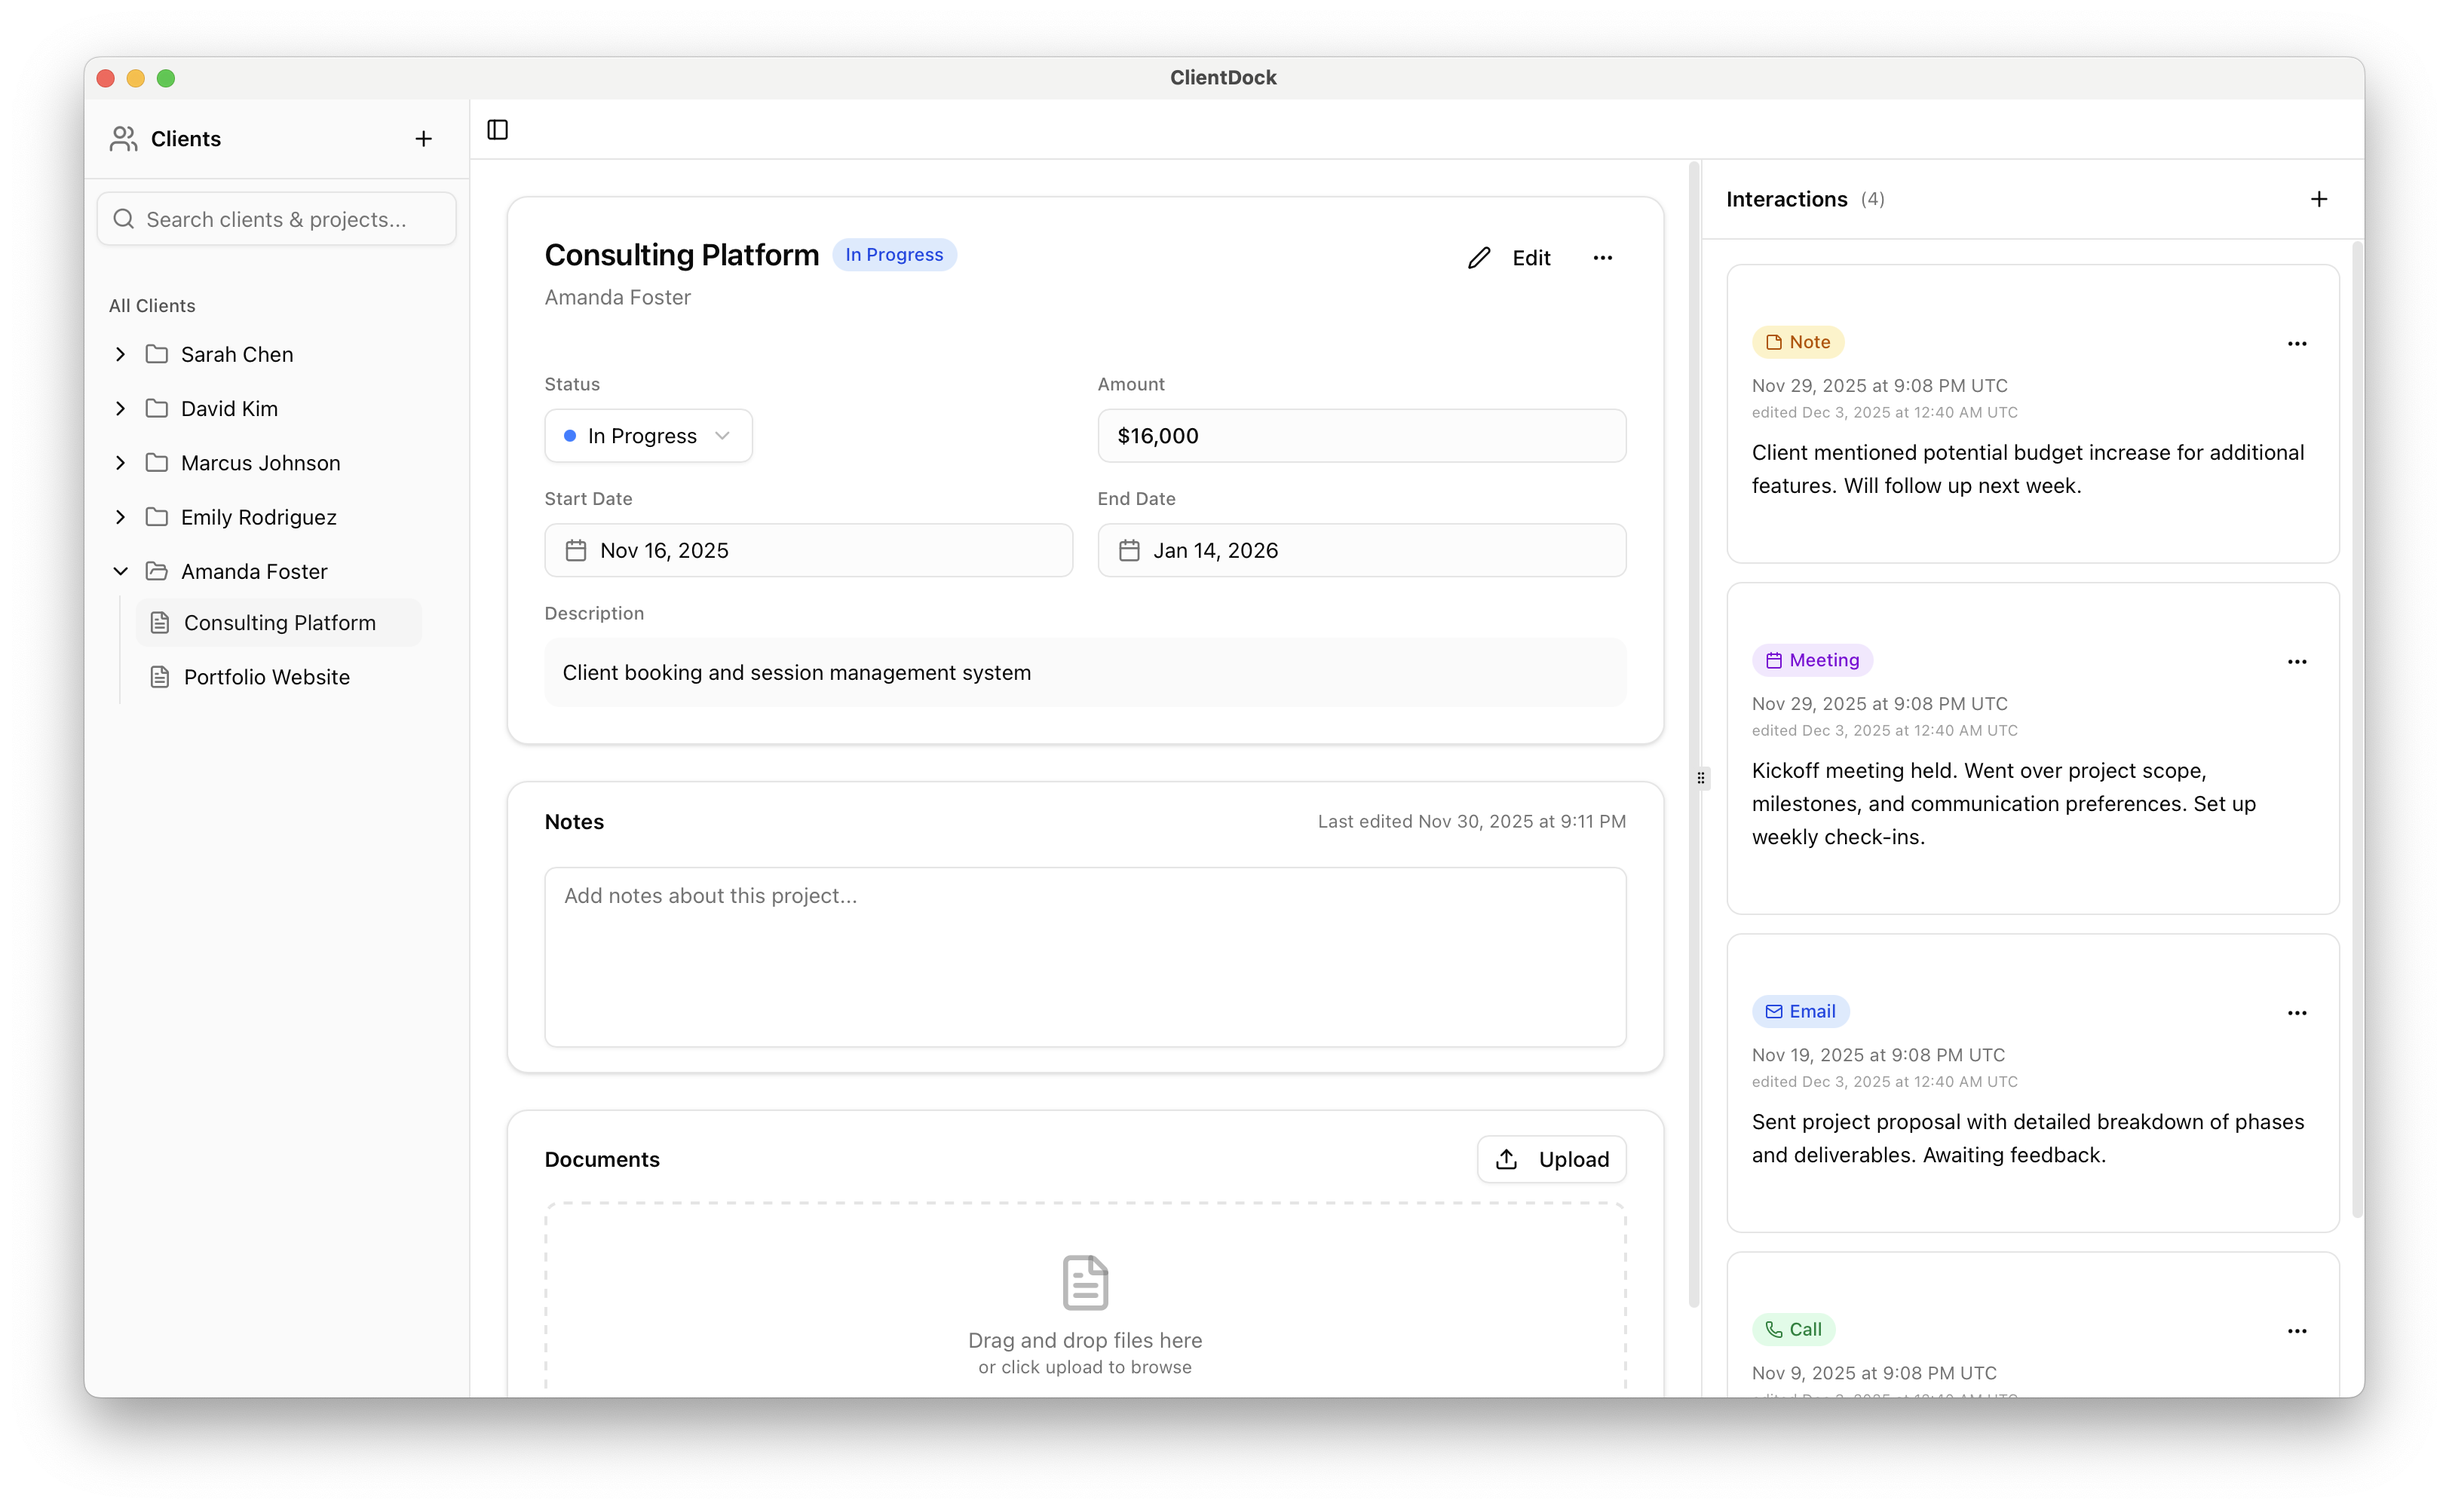
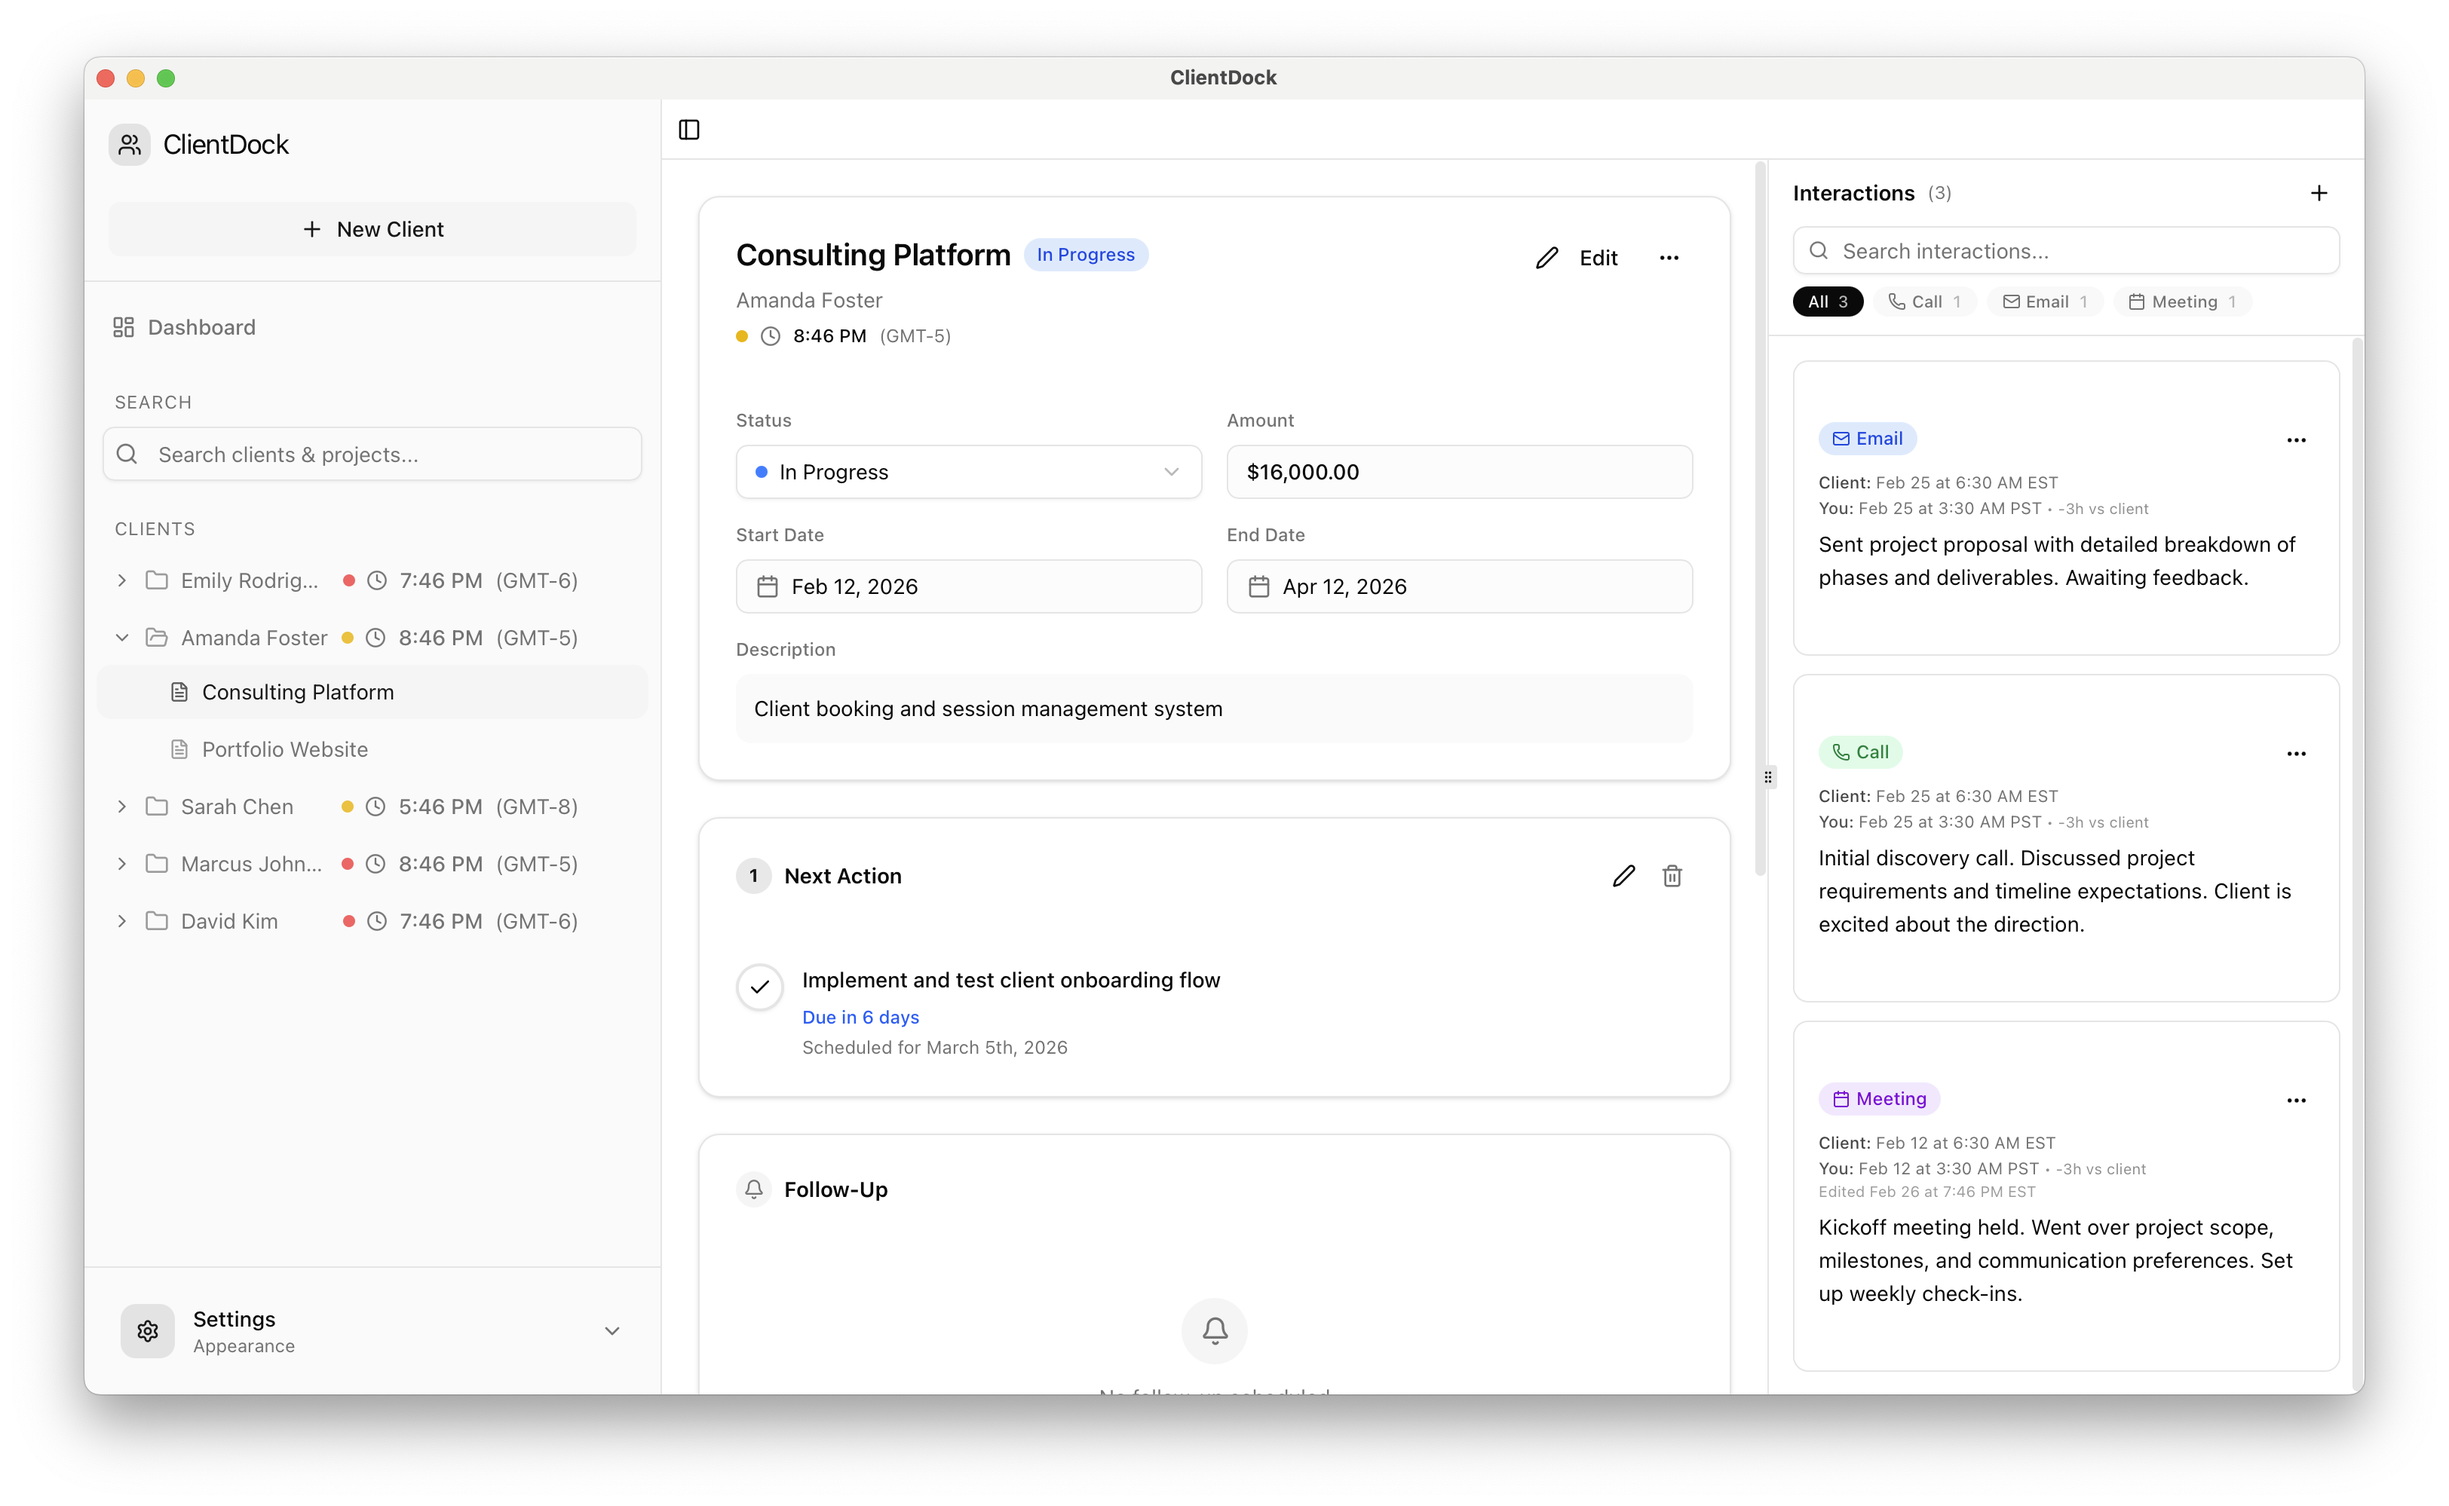
Update readme: showcase new features

diff --git a/README.md b/README.md
@@ -3,7 +3,7 @@
 </p>
 <h1 align="center">ClientDock</h1>
 <p align="center">
-  <strong>A modern, local-first desktop CRM for freelancers and small businesses</strong>
+  <strong>The CRM that lives on your machine — not someone else's server</strong>
 </p>
 <p align="center">
   <a href="../../releases/latest"><img src="https://img.shields.io/badge/Download-Latest%20Release-blue?style=for-the-badge" alt="Download"></a>
@@ -24,8 +24,6 @@ ClientDock is a privacy-focused desktop CRM that helps you manage your clients, 
 ## Quick Start
 
 ### Download & Install
-
-Choose your platform and get started in minutes:
 
 | Platform | Download |
 |----------|----------|
@@ -63,34 +61,98 @@ sudo dpkg -i ClientDock_beta_arm64.deb
 
 ---
 
-## Core Features
+## Features at a Glance
 
-**Client Management**  
-Create detailed profiles for each client with contact information, notes, and custom fields.
+- **Client Management** — Full client profiles with contact info, social links, tags, notes, and working hours
+- **Project Tracking** — Organize projects per client with status, timeline, budget, and auto-saving notes
+- **Interaction Logging** — Log calls, emails, meetings, and notes with full timezone support
+- **Document Management** — Attach files directly to projects, open or download in one click
+- **Next Actions** — Pin one clear next step per project so nothing slips
+- **Follow-Up Reminders** — Schedule follow-ups and get surfaced when the time comes
+- **Attention Dashboard** — See what's gone quiet, what's overdue, and what needs you today
+- **Tags & Search** — Tag clients your way and search across clients and projects instantly
+- **Client Timezone Clock** — See your client's local time before you hit send
+- **Backup & Restore** — Export and restore your entire database whenever you want
 
-**Project Tracking**  
-Organize projects under clients, attach documents, and track project metadata.
+---
 
-**Interaction History**  
-Log every meeting, call, email, and note in a chronological timeline for complete context.
+## What's Inside
 
-**Local-First Architecture**  
-Your data lives on your device. No cloud servers, no tracking, complete privacy.
+### Know Your Clients, Actually Know Them
 
-**Clean Interface**  
-Intuitive design that gets out of your way so you can focus on your work.
+**Client Management** is where everything starts. Each client gets a full profile — contact details, social profiles (clickable), notes, tags, and working hours. It's the kind of context that usually lives in a sticky note or buried in your inbox. Now it has a home.
+
+Every client you delete cascades cleanly — their projects, interactions, and documents all go with them. No orphaned data, no surprises.
+
+---
+
+### Projects That Tell You Where Things Stand
+
+**Project Management** keeps your work organized under the right client. Each project has a name, status, timeline, budget, and a notes field that auto-saves as you type — no "Save" button to forget.
+
+Status goes from *Not Started* → *In Progress* → *On Hold* → *Completed* → *Cancelled*, and it's color-coded so you can see what's moving and what's stalled at a glance.
+
+---
+
+### A Log of Every Conversation
+
+Ever jumped on a call with a client and gone completely blank on what you last discussed? **Interaction Logging** fixes that.
+
+Log calls, emails, meetings, and notes. Each entry stores the date, time, timezone, and your notes. Interactions show up newest-first so the most recent context is always at the top. If you edit an entry after the fact, it's marked as edited — nothing is silently changed.
+
+Timezone support is built in and defaults to your local timezone, which matters more than you'd think when your clients are spread across the world.
+
+---
+
+### Your Files, Right Where You Need Them
+
+**Document Management** lets you attach files directly to a project. Contracts, briefs, assets — upload them once and open or download them from inside the app whenever you need them. No digging through folder structures or shared drives.
+
+---
+
+### Always Know What's Next
+
+This is where ClientDock starts feeling less like a database and more like a thinking partner.
+
+**Next Actions** let you pin one clear next step to each project. Not a list of 30 things — just the one thing that moves it forward. It's a small constraint that makes a big difference.
+
+**Follow-Up Reminders** make sure clients don't fall through the cracks. Schedule a follow-up, and ClientDock will surface it when the time comes.
+
+**The Attention Dashboard** pulls it all together. It shows you which clients and projects haven't had any activity in a while, which follow-ups are overdue, and what needs your attention today — without you having to hunt for it.
+
+---
+
+### Tags and Search
+
+**Tags** let you group and filter clients any way you want — by industry, status, priority, whatever makes sense for how you work. And when you need to find something fast, **search** covers your clients and projects so you can pull up what you need without scrolling through everything.
+
+---
+
+### Know What Time It Is for Your Client
+
+Small thing, big impact. The **Client Timezone Clock** shows you the current local time for each client based on their timezone. Before you send that message at 11 PM their time, you'll know.
+
+---
+
+### Backup & Restore
+
+Your data is valuable. **Backup and Restore** lets you export a snapshot of your entire database and restore it later — useful before a system migration, or just as a regular habit. Your data, your responsibility, your control.
+
+---
+
+## Under the Hood
+
+ClientDock is built with Rust (via Tauri) on the backend and React on the frontend. The database is SQLite — a single file on your machine. There are no network requests, no telemetry, and no analytics. The app works completely offline because there's nothing to connect to.
 
 ---
 
 ## Screenshots
 
-Below are guided screenshots showing a typical workflow in ClientDock — from the main dashboard to creating clients and logging interactions. The images are ordered to follow a typical user flow.
+A quick tour of ClientDock in action:
 
-- **01 — Client Profile:** Client details, contact methods, and custom fields.
-- **02 — Project View:** Projects grouped under a client with metadata and documents.
-- **03 — Interaction Timeline:** Chronological log of meetings, calls, and notes.
-- **04 — Add Client Dialog:** The modal used to quickly add a new client.
-
+<p align="center">
+  <img src="./screenshots/01-attention-dashboard.png" alt="Attention Dashboard" width="800" />
+</p>
 <p align="center">
   <img src="./screenshots/02-client-profile.png" alt="Client Profile" width="800" />
 </p>
@@ -103,16 +165,17 @@ Below are guided screenshots showing a typical workflow in ClientDock — from t
 <p align="center">
   <img src="./screenshots/05-add-client-dialog.png" alt="Add Client Dialog" width="640" />
 </p>
+<p align="center">
+  <img src="./screenshots/06-back-up-restore.png" alt="Backup & Restore" width="800" />
+</p>
 
 ---
 
 ## Getting Help
 
-Need assistance or want to report an issue?
-
 - **Bug Reports:** [Open an issue](../../issues)
 - **Feature Requests:** [Share your ideas](../../issues/new)
-- **Questions:** Check existing [issues](../../issues) or create a new one
+- **Questions:** Check existing [issues](../../issues) or open a new one
 
 ---
 
@@ -120,4 +183,4 @@ Need assistance or want to report an issue?
 
 This repository contains official beta builds. The source code is proprietary.
 
-**© 2025 ClientDock. All rights reserved.**
+**© 2026 ClientDock. All rights reserved.**
